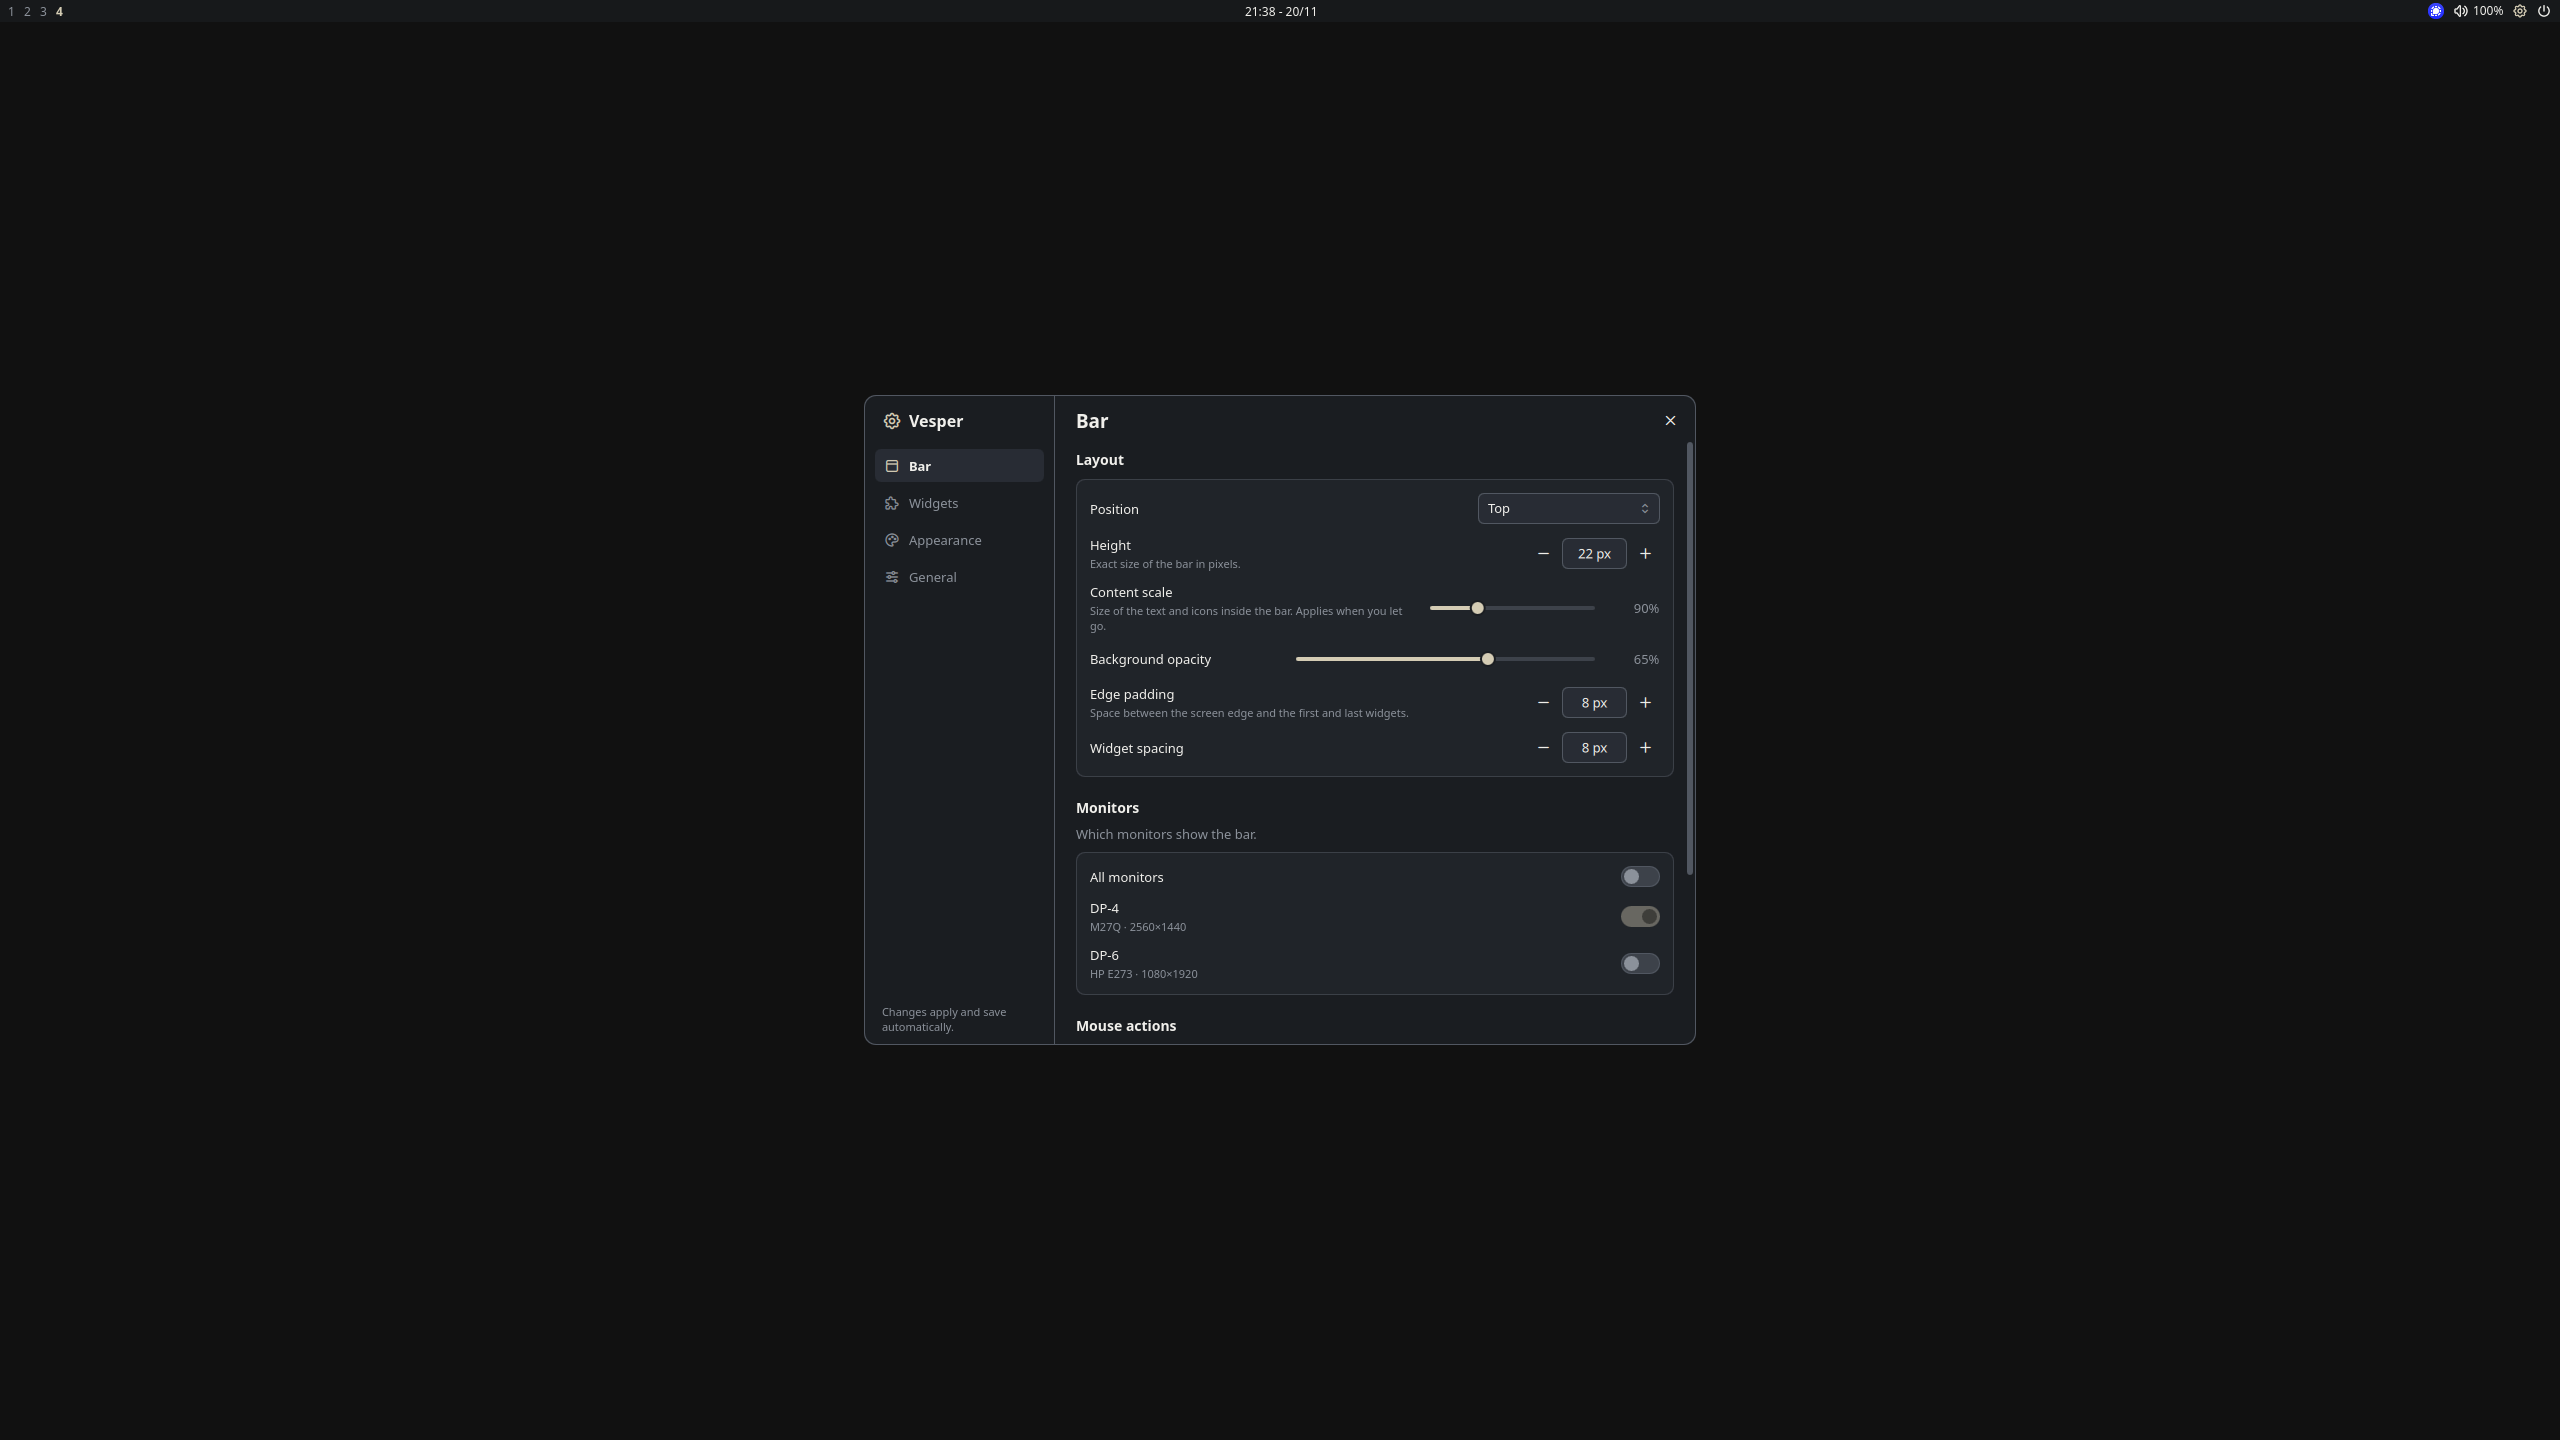
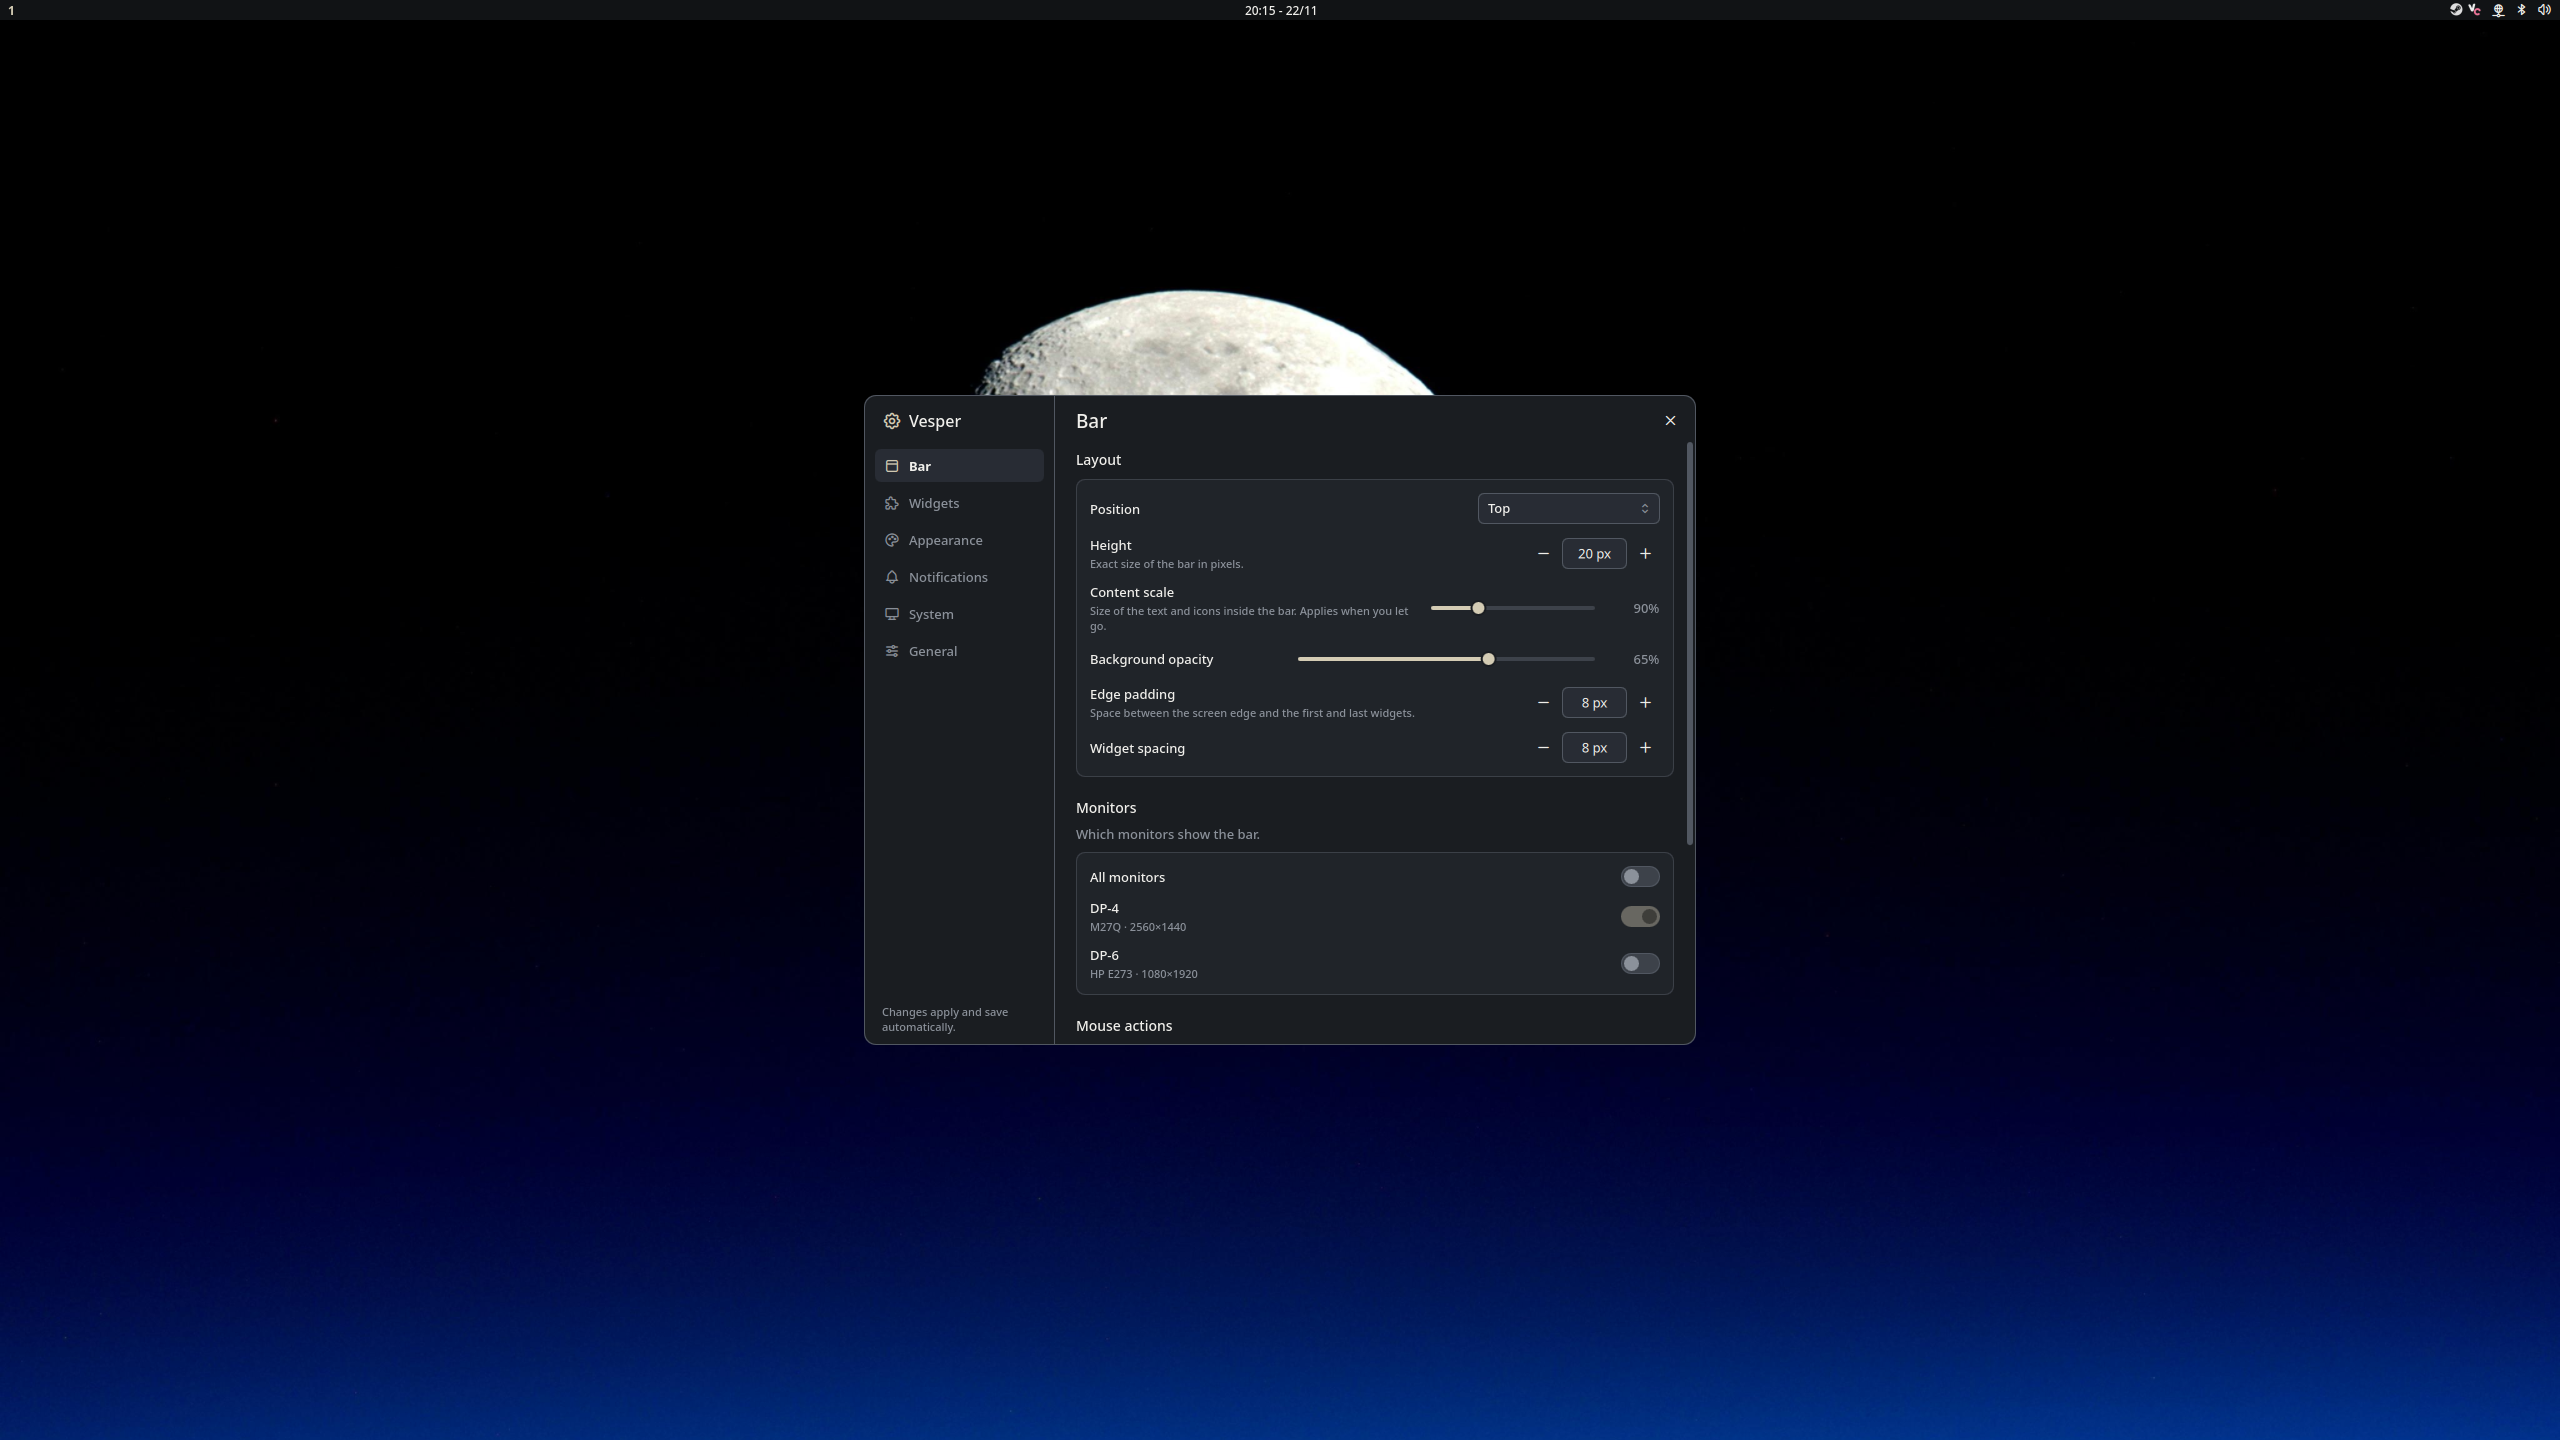
README: new screenshots, fixed widget table, updated intro
- Retook the main and bar screenshots, added one of the control center
- Fixed the widget table, which was split in two by unindented rows
- Intro now describes Vesper as it is: bar, panels, notifications, OSD and system controls, not just a bar

diff --git a/README.md b/README.md
@@ -1,14 +1,16 @@
 # Vesper
 
-A simple, configurable bar for [Hyprland](https://hypr.land), built with [Quickshell](https://quickshell.org).
+A small desktop shell for [Hyprland](https://hypr.land), built with [Quickshell](https://quickshell.org): a configurable bar, with the panels, notifications and system controls that go with it.
 
 ![Vesper's bar with the settings window open](docs/screenshot.png)
 
-Vesper is inspired by noctalia-shell v4: a bar made of widgets you arrange from a settings window, with theming that only affects the bar itself. It deliberately leaves out the extras (wallpaper-based colours, app theming templates, dock, lock screen) to stay small and easy to follow.
+Vesper is inspired by noctalia-shell v4. The bar is made of widgets you arrange from a settings window, and those widgets open panels for audio, network, Bluetooth, the calendar and a control center. Vesper is also your notification daemon and on-screen display, and handles brightness (including external monitors over DDC/CI), night light and keep awake.
+
+It deliberately leaves out the rest of a full shell (wallpaper-based colours, theming other apps, a dock, a lock screen) to stay small and easy to follow. Themes only change how Vesper itself looks.
 
 ## Features
 
-![Close-up of the right side of the bar: clock, tray, volume, settings and session buttons](docs/bar-right.png)
+![Close-up of the bar: clock, system tray, network, Bluetooth and volume](docs/bar-right.png)
 
 - **Bar** on any edge of the screen, with an exact pixel height, separate content scale, background opacity, and per-monitor settings.
 - **Widgets** you can add, remove, reorder and configure from the settings window:
@@ -22,13 +24,13 @@ Vesper is inspired by noctalia-shell v4: a bar made of widgets you arrange from 
   | Volume / Microphone | Click for the audio panel, middle click to mute, scroll to change |
   | Media | Now playing (MPRIS); play/pause, next, previous |
   | Bluetooth | Status; click for the Bluetooth panel, right click to turn on/off |
-| Network / VPN | Wired and Wi-Fi status / VPN status; click for the network panel |
-| Brightness | This screen's brightness (laptop backlight or external monitor over DDC/CI); scroll to change |
-| System monitor | CPU, memory, temperatures, GPU, disk and network speed |
-| Night light / Keep awake | Click to toggle |
-| Privacy indicator | Shows while apps use the microphone, camera or screen sharing |
-| Notifications | Unread count; click for the history, right click for do not disturb |
-| Control center | Opens the control center |
+  | Network / VPN | Wired and Wi-Fi status / VPN status; click for the network panel |
+  | Brightness | This screen's brightness (laptop backlight or external monitor over DDC/CI); scroll to change |
+  | System monitor | CPU, memory, temperatures, GPU, disk and network speed |
+  | Night light / Keep awake | Click to toggle |
+  | Privacy indicator | Shows while apps use the microphone, camera or screen sharing |
+  | Notifications | Unread count; click for the history, right click for do not disturb |
+  | Control center | Opens the control center |
   | Battery | Hidden on machines without a battery |
   | Power profile | Switch between power saver, balanced and performance |
   | Keyboard layout | Click to switch layout |
@@ -44,6 +46,9 @@ Vesper is inspired by noctalia-shell v4: a bar made of widgets you arrange from 
   - **Network**: wired status, Wi-Fi on/off and networks (with password entry), VPN connections.
   - **Bluetooth**: on/off, connect and disconnect paired devices, pair new ones.
   - **Notification history**, with do not disturb.
+
+  ![The control center: volume, microphone and per-monitor brightness sliders, with network, Bluetooth, do not disturb, power profile and keep awake toggles](docs/control-center.png)
+
 - **Notifications**: Vesper is a notification daemon, with popups (actions, images, links, replacing notifications) and a history that's kept across restarts.
 - **On-screen display** when the volume, microphone or brightness changes.
 - **Night light** (with an optional schedule) and **keep awake**.
